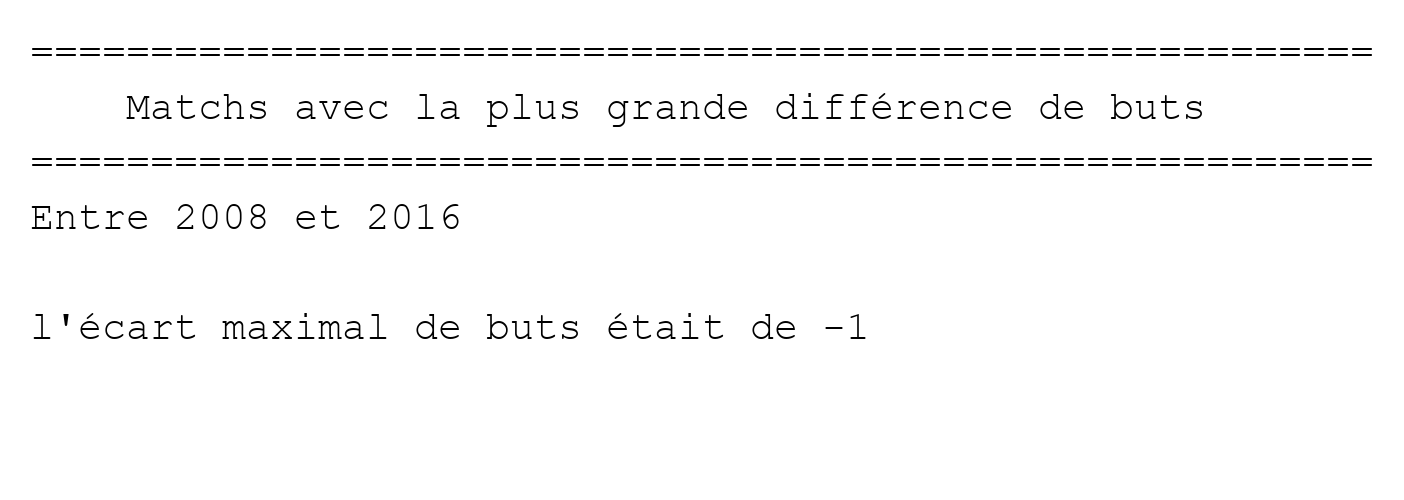
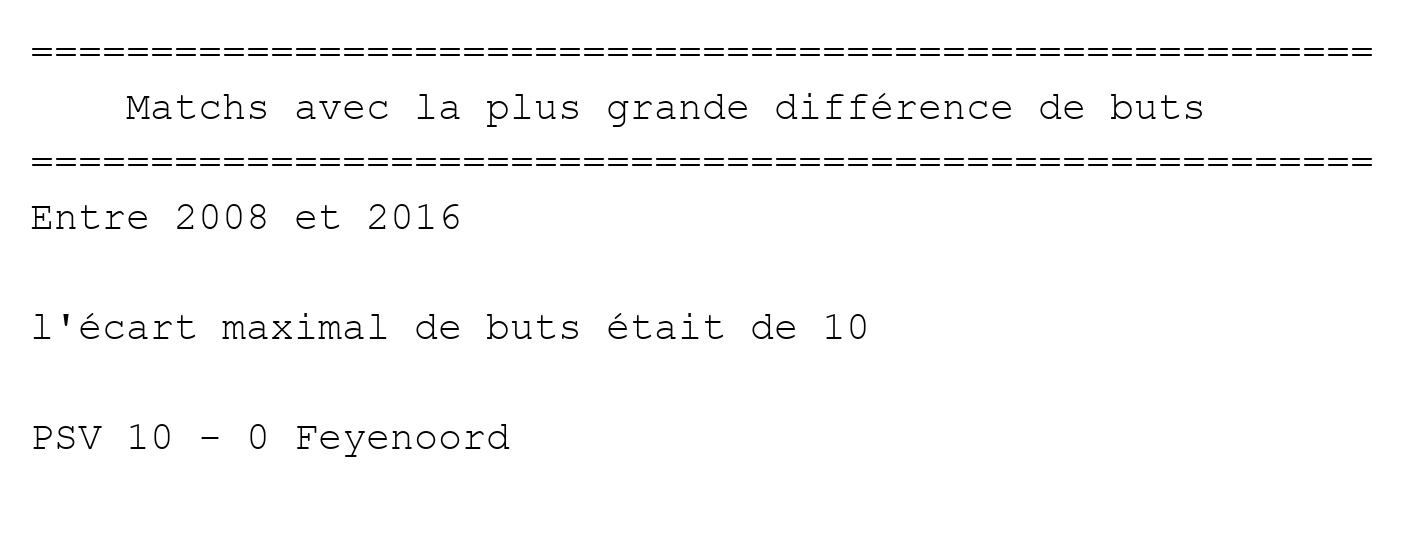
correction bugs

diff --git a/project/view/q4_view.py b/project/view/q4_view.py
@@ -88,16 +88,11 @@ class Q4View(AbstractView):
                 "à la question ?",
                 "choices": [
                     "Tous les championnats réunis",
-                    "Ligue 1 (France)",
                     "Premier League (Angleterre)",
                     "Bundesliga (Allemagne)",
                     "Serie A (Italie)",
                     "Liga BBVA (Espagne)",
                     "Eredivisie (Pays-Bas)",
-                    "Liga ZON Sagres (Portugal)",
-                    "Ekstraklasa (Pologne)",
-                    "Jupiler League (Belgique)",
-                    "Super League (Suisse)",
                 ],
             }
         ]

diff --git a/project/src/Q2_diff_buts_max.py b/project/src/Q2_diff_buts_max.py
@@ -40,11 +40,16 @@ def run_q2(saison, league):
     max_diff = -1
     matchs_max = []
 
-    for data in matchs.items():
+    for data in matchs.values():
         season_val, league_val, home_id, away_id, home_goal, away_goal = data
 
-        if season_val != saison or int(league_val) != int(league_id):
-            continue
+        if saison != "0":
+            if season_val != saison:
+                continue
+
+        if league_id != 0:
+            if int(league_val) != int(league_id):
+                continue
 
         try:
             diff = abs(int(home_goal) - int(away_goal))

diff --git a/project/src/Q7_equipe_type_affichage.py b/project/src/Q7_equipe_type_affichage.py
@@ -33,7 +33,10 @@ def run_q7(saison):
         sont pris en compte.
     """
     print("==================================================================")
-    print(f"          Equipe type de la saison {saison}")
+    print(
+        f"          Equipe type "
+        f"{f'de la saison {saison}' if saison != "0" else 'générale'}"
+    )
     print("==================================================================")
 
     # Charger le fichier CSV
